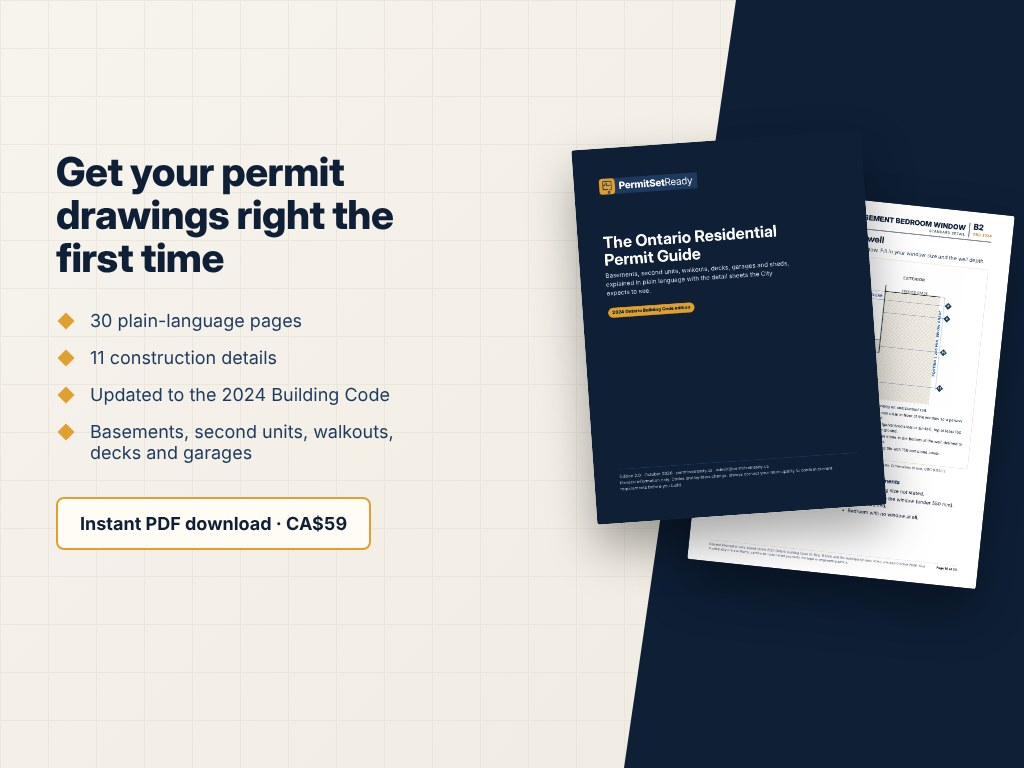
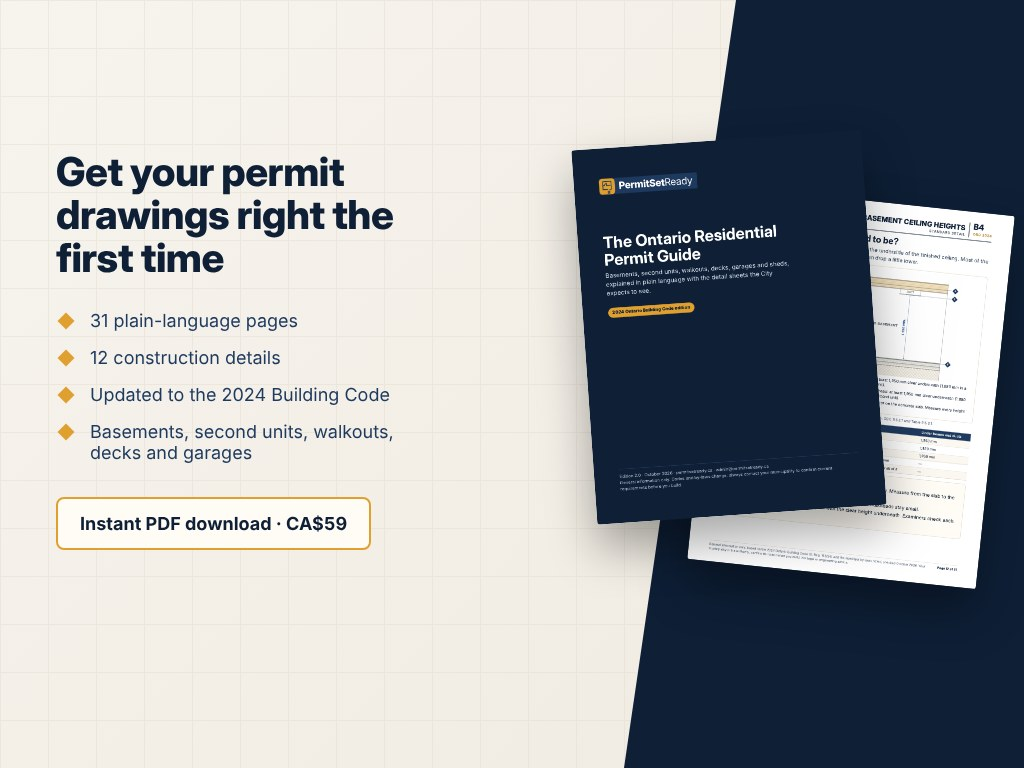
Guide v2.0: basement ceiling height sheet B4, STC 50; portal ceiling and sound wording
Claude-Session: https://claude.ai/code/session_01KwWttT6JyxiJdxM8JPCezD

Changed region(s): [[0.8438, 0.2812, 0.9688, 0.6875], [0.0938, 0.4062, 0.3125, 0.5]]

diff --git a/start/index.html b/start/index.html
@@ -504,7 +504,7 @@ function renderReview(){var it=state.intake;var kinds={};state.files.forEach(fun
 // ---------- code checklist (2024 OBC, O. Reg. 163/24) shown to Draft-to-Scale clients before they finalise their sketch ----------
 var CHECKLIST={
  finish:{t:'Basement finish',i:[
-  ['Ceiling height','Plan for at least 1,950 mm (6 ft 5 in) clear in finished rooms. In a second unit, beams and ducts may drop to 1,850 mm (6 ft 1 in). Mark any low spots on your sketch.','9.5.3.1'],
+  ['Ceiling height','At least 2,100 mm (6 ft 11 in) over 75% of the finished basement, and 1,950 mm (6 ft 5 in) under beams and ducts. In a second unit: 1,950 mm, and 1,850 mm (6 ft 1 in) under beams and ducts. Mark any low spots on your sketch.','9.5.3.1'],
   ['Bedroom windows','Every bedroom needs an openable window of at least 0.35 m² (3.8 sq ft), no side under 380 mm (15 in), with the sill no higher than 1,000 mm (39 in) above the floor.','9.7.2.3'],
   ['Window wells','A window below ground needs a well with drainage and room to open the window and climb out.','9.7.5'],
   ['Bedroom size','Main bedroom at least 9.8 m² (105 sq ft), or 8.8 m² (95 sq ft) with a built-in closet; other bedrooms 7 m² (75 sq ft), or 6 m² (65 sq ft) with a built-in closet.','9.5'],
@@ -516,7 +516,7 @@ var CHECKLIST={
  unit:{t:'Second unit (ARU)',i:[
   ['Everything for a basement finish','All items in the basement finish list apply to the unit.',''],
   ['Fire separation','Walls and ceiling between the units need a fire separation, including doors and service openings: 45 minutes in new work, or continuous 15.9 mm (5/8 in) Type X drywall. A house at least 5 years old can use the renovation option: 30 minutes, or 15 minutes with interconnected smoke alarms.','9.10.9.16 / 11.5'],
-  ['Sound','The walls and floor between units need a sound rating (STC). A house at least 5 years old may be exempt under the renovation rules; we confirm what your municipality expects.','9.11'],
+  ['Sound','The walls and floor between units need STC 50 (or ASTC 47). A house at least 5 years old may qualify for less under the renovation rules; we confirm what your municipality expects.','9.11.1.1'],
   ['Heating','No return air shared between the units. In an existing house, one furnace can serve both if a duct smoke detector shuts it off.','9.33 / 11.5'],
   ['Own way out','The unit needs its own exit, or a shared exit protected as the code requires.','9.9'],
   ['Alarms','Smoke alarms on every storey and in every bedroom, interconnected across both units; CO alarms beside sleeping areas wherever there is a fuel-burning appliance or an attached garage.','9.10.19 / 9.32.3.9A'],

diff --git a/guide/index.html b/guide/index.html
@@ -4,7 +4,7 @@
 <meta charset="utf-8">
 <meta name="viewport" content="width=device-width, initial-scale=1, viewport-fit=cover">
 <title>Ontario Residential Permit Guide</title>
-<meta name="description" content="The Ontario Residential Permit Guide: 30 plain-language pages on planning, drawing and filing a basement, second unit, walkout, deck or garage permit, with 11 construction details updated to the 2024 Building Code, and the other approvals to check (conservation, heritage, highways). $59, instant PDF.">
+<meta name="description" content="The Ontario Residential Permit Guide: 31 plain-language pages on planning, drawing and filing a basement, second unit, walkout, deck or garage permit, with 12 construction details updated to the 2024 Building Code, and the other approvals to check (conservation, heritage, highways). $59, instant PDF.">
 <link rel="canonical" href="https://permitsetready.ca/guide/">
 <meta name="robots" content="noindex">
 <link rel="icon" href="/img/favicon.svg" type="image/svg+xml">
@@ -40,7 +40,7 @@
     <div>
       <p class="eyebrow" id="g-eyebrow">The Ontario Residential Permit Guide</p>
       <h1 id="g-title" style="font-size:clamp(28px,4vw,40px);margin:6px 0 10px">Plan, draw and file your own permit</h1>
-      <p class="muted" id="g-text">30 plain-language pages on planning, drawing and filing a basement, second unit, walkout, deck or garage permit, with 11 construction details updated to the 2024 Building Code, and the other approvals to check (conservation, heritage, highways). $59 + HST · instant PDF.</p>
+      <p class="muted" id="g-text">31 plain-language pages on planning, drawing and filing a basement, second unit, walkout, deck or garage permit, with 12 construction details updated to the 2024 Building Code, and the other approvals to check (conservation, heritage, highways). $59 + HST · instant PDF.</p>
       <div class="cta" id="g-cta">
         <a class="btn btn-amber" data-buy="guide" href="mailto:admin@permitsetready.ca?subject=Permit%20Guide">Buy the guide · $59 + HST</a>
         <span class="small">Secure card payment through Stripe.</span>

diff --git a/professionals/index.html b/professionals/index.html
@@ -153,7 +153,7 @@
       </div>
       <div class="product">
         <img src="/img/guide-hero.jpg" alt="The Ontario Residential Permit Guide" loading="lazy">
-        <div class="body"><h3>The Ontario Residential Permit Guide</h3><p class="muted" style="font-size:15px">30 plain-language pages on planning, drawing and filing a basement, second unit, walkout, deck or garage permit, with 11 construction details updated to the 2024 Building Code, and the other approvals to check (conservation, heritage, highways). Handy for clients.</p><p class="cost">$59 + HST · instant PDF</p><a class="btn btn-amber btn-sm" data-buy="guide" href="/guide/">Buy the guide</a></div>
+        <div class="body"><h3>The Ontario Residential Permit Guide</h3><p class="muted" style="font-size:15px">31 plain-language pages on planning, drawing and filing a basement, second unit, walkout, deck or garage permit, with 12 construction details updated to the 2024 Building Code, and the other approvals to check (conservation, heritage, highways). Handy for clients.</p><p class="cost">$59 + HST · instant PDF</p><a class="btn btn-amber btn-sm" data-buy="guide" href="/guide/">Buy the guide</a></div>
       </div>
     </div>
   </section>
